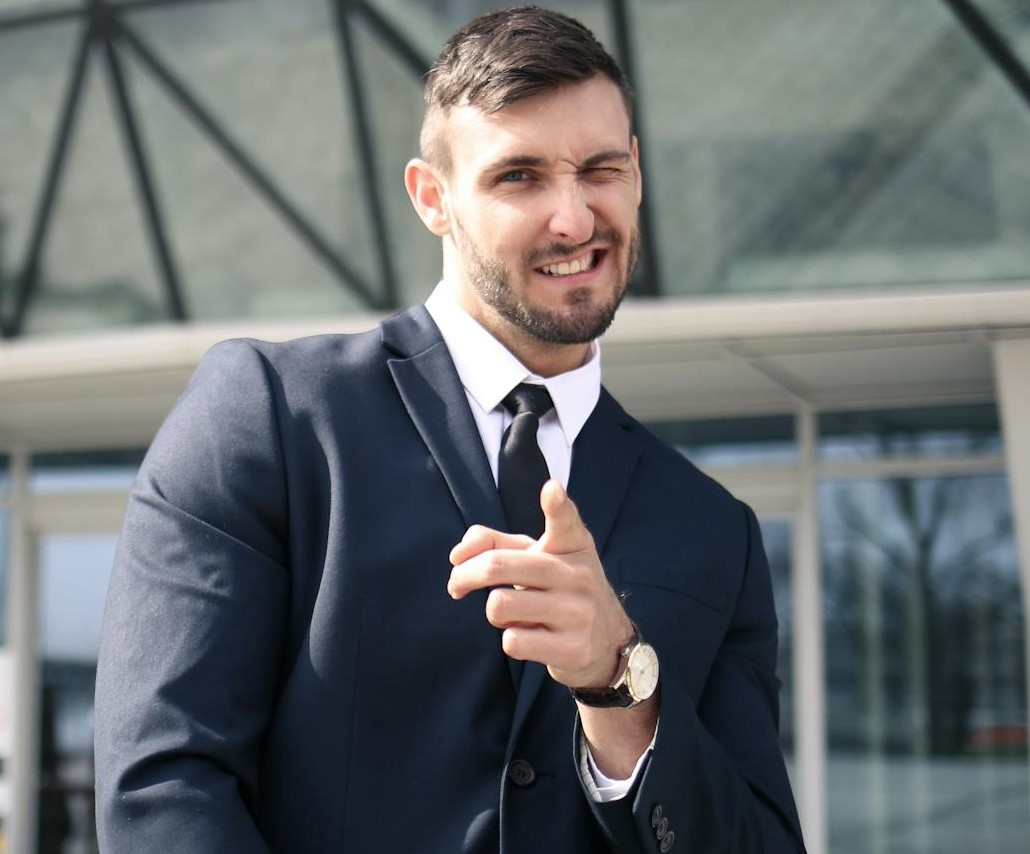
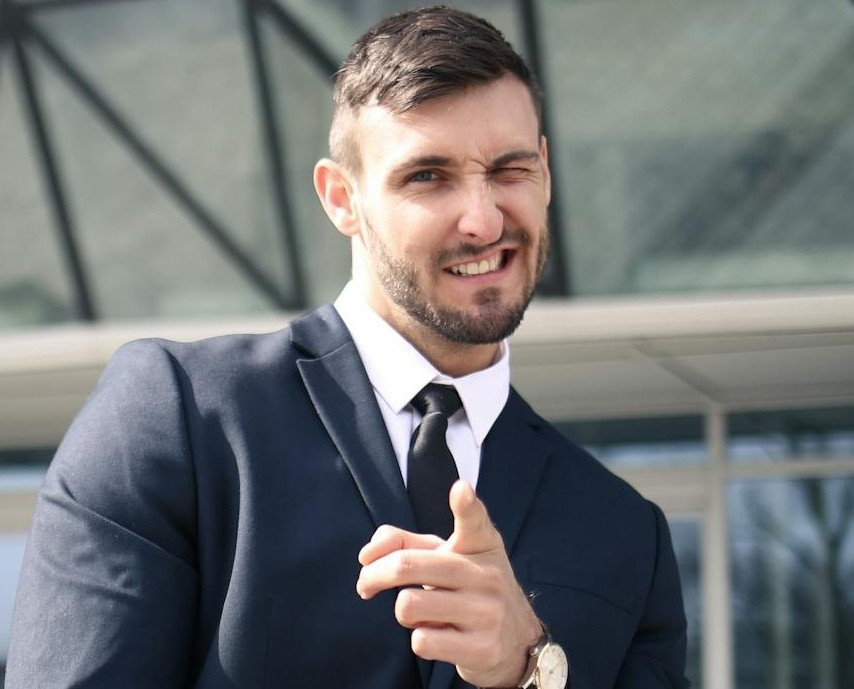
build: create footer and its content
Build the footer section with a content part on the left and a
responsive picture on the right.

Fill with content with a placeholder text and picture

Set only basic styles and properties to meet the given design files

diff --git a/index.html b/index.html
@@ -30,19 +30,226 @@
     <title>Project: Homepage</title>
 </head>
 <body>
-    <link defer rel="stylesheet" href="style.css">
-    
-    Lorem ipsum dolor sit amet, consectetur adipiscing elit, sed do eiusmod tempor incididunt ut labore et dolore magna aliqua. Ut enim ad minim veniam, quis nostrud exercitation ullamco laboris nisi ut aliquip ex ea commodo consequat.
+    <link rel="stylesheet" href="style.css">
+   
+    <header>
 
-
-    <i class="devicon-github-original"></i>
-
-    <i class="devicon-linkedin-plain"></i>
-
-    <i class="devicon-twitter-original"></i>
+        <picture>
+            <source 
+                media="(max-width: 530px)" 
+                srcset="assets/images/portrait-crop.jpg"
+            />
+            <img 
+                src="assets/images/portrait-full.jpg" 
+                alt="Portrait of stock guy" 
+            />
+        </picture>
           
-    <i class='bx bx-phone'></i>
-    <i class='bx bx-envelope'></i>
+        <section class="about-me-holder">
+            <div class="about-me-title">
+                <h1>About me</h1>
+            </div>
+            <div class ="about-me-content">
+                <p>
+                    Lorem ipsum dolor sit amet, consectetur adipiscing elit, 
+                    sed do eiusmod tempor incididunt ut labore et dolore magna aliqua.
+                    Ut enim ad minim veniam, quis nostrud exercitation ullamco laboris
+                    nisi ut aliquip ex ea commodo consequat. Duis aute irure dolor
+                    in reprehenderit in voluptate velit esse cillum dolore eu fugiat
+                    nulla pariatur.
+                </p>
+            </div>
+
+            <div class="about-me-links">
+                <i class="devicon-github-original"></i>
+                <i class="devicon-linkedin-plain"></i>
+                <i class="devicon-twitter-original"></i>
+            </div>
+        </section>
+
+    </header>
+    
+    <main>
+        <div class="content-title">
+            <h1>My Work</h1>
+        </div>
+
+        <div class="cards-holder">
+        
+            <article class="article-holder">
+                <div class="article-screenshot"></div>
+                <div class="article-title-holder">
+                    <div class="article-title">
+                        Project name
+                    </div>
+
+                    <div class="article-links">
+                        <i class="devicon-github-original"></i>
+                        <i class='bx bx-link-external'></i>
+                    </div>
+                </div>
+                <div class="article-content">
+                    <p>
+                        Short description of the project.
+                        Just a couple sentences will do.
+
+                    </p>
+                </div>
+            </article>
+
+            <article class="article-holder">
+                <div class="article-screenshot"></div>
+                <div class="article-title-holder">
+                    <div class="article-title">
+                        Project name
+                    </div>
+
+                    <div class="article-links">
+                        <i class="devicon-github-original"></i>
+                        <i class='bx bx-link-external'></i>
+                    </div>
+                </div>
+                <div class="article-content">
+                    <p>
+                        Short description of the project.
+                        Just a couple sentences will do.
+
+                    </p>
+                </div>
+            </article>
+
+            <article class="article-holder">
+                <div class="article-screenshot"></div>
+                <div class="article-title-holder">
+                    <div class="article-title">
+                        Project name
+                    </div>
+
+                    <div class="article-links">
+                        <i class="devicon-github-original"></i>
+                        <i class='bx bx-link-external'></i>
+                    </div>
+                </div>
+                <div class="article-content">
+                    <p>
+                        Short description of the project.
+                        Just a couple sentences will do.
+
+                    </p>
+                </div>
+            </article>
+
+            <article class="article-holder">
+                <div class="article-screenshot"></div>
+                <div class="article-title-holder">
+                    <div class="article-title">
+                        Project name
+                    </div>
+
+                    <div class="article-links">
+                        <i class="devicon-github-original"></i>
+                        <i class='bx bx-link-external'></i>
+                    </div>
+                </div>
+                <div class="article-content">
+                    <p>
+                        Short description of the project.
+                        Just a couple sentences will do.
+
+                    </p>
+                </div>
+            </article>
+
+            <article class="article-holder">
+                <div class="article-screenshot"></div>
+                <div class="article-title-holder">
+                    <div class="article-title">
+                        Project name
+                    </div>
+
+                    <div class="article-links">
+                        <i class="devicon-github-original"></i>
+                        <i class='bx bx-link-external'></i>
+                    </div>
+                </div>
+                <div class="article-content">
+                    <p>
+                        Short description of the project.
+                        Just a couple sentences will do.
+
+                    </p>
+                </div>
+            </article>
+
+            <article class="article-holder">
+                <div class="article-screenshot"></div>
+                <div class="article-title-holder">
+                    <div class="article-title">
+                        Project name
+                    </div>
+
+                    <div class="article-links">
+                        <i class="devicon-github-original"></i>
+                        <i class='bx bx-link-external'></i>
+                    </div>
+                </div>
+                <div class="article-content">
+                    <p>
+                        Short description of the project.
+                        Just a couple sentences will do.
+
+                    </p>
+                </div>
+            </article>
+
+       </div>
+
+    </main>
+    
+    <footer>
+        <section class="footer-content-holder">
+            <div class="footer-content-title">
+                <h1>Contact me</h1>
+            </div>
+            <div class="footer-content">
+                <p>
+                    Please get in touch if you think our work
+                    could be mutually beneficial.
+                </p>
+                <div class="footer-content-adres">
+                    <p>
+                        1234 Random Road
+                        Random Town, california 12345
+                    </p>
+                </div>
+                <div class="footer-content-phone">
+                    <i class='bx bx-phone'></i>
+                    <p>06-12345678</p>
+                </div>
+                <div class="footer-content-mail">
+                    <i class='bx bx-envelope'></i>
+                    <p>this.adres@isnotreal.com</p>
+                </div>
+                <div class="footer-links">
+                    <i class="devicon-github-original"></i>
+                    <i class="devicon-linkedin-plain"></i>
+                    <i class="devicon-twitter-original"></i>
+                </div>
+            </div>
+        </section>
+
+            <picture>
+                <source 
+                    media="(max-width: 530px)" 
+                    srcset="assets/images/contact-portrait-crop.jpg"
+                />
+                <img 
+                    class="footer-picture"
+                    src="assets/images/contact-portrait-full.jpg" 
+                    alt="Portrait of stock guy" 
+                />
+            </picture>
+    </footer>
 
 </body>
 </html>

diff --git a/style.css b/style.css
@@ -1,3 +1,111 @@
+/* Reset CSS */
+*{
+    margin: 0;
+    padding: 0;
+    box-sizing: border-box;
+}
+
+
+
+/* Custom properties */
+:root{
+    --background-color: rgb(0, 152, 190);
+
+    --title-font-family: "Playfair Display", serif;
+    --content-font-family: "Roboto", sans-serif;
+}
+
+
+
+/* Global layout */
+
+/* html{
+    width: 100vw;
+    height: 100vh;
+} */
+
 body{
-    background-color: bisque;
+    font-family: var(--title-font-family);
+    background-color: rgb(255, 255, 255);
+}
+
+header{
+    background: linear-gradient(170deg, var(--background-color) 50%, rgb(255, 255, 255) 50%);
+    display: flex;
+    flex-direction: column;
+    align-items: center;
+}
+
+footer{
+    background-color: var(--background-color);
+    display: flex;
+    flex-direction: column;
+    justify-content: center;
+    align-items: center;
+
+    max-width: 960px;
+}
+
+/* Elements */
+.about-me-holder{
+    background-color: white;
+    box-shadow: 1px 1px 5px 2px rgb(180, 180, 180);
+}
+
+.about-me-content{
+    max-width: 400px;
+}
+
+.about-me-links{
+    display: flex;
+    flex-direction: row;
+    justify-content:end;
+}
+
+.cards-holder{
+    max-width: 960px;
+    height: 100%;
+
+    display: flex;
+    flex-direction: column;
+    flex-wrap: wrap;
+    gap: 30px;
+}
+
+.article-holder{
+    flex: 1;
+}
+
+.article-title-holder{
+    display: flex;
+    flex-direction: row;
+}
+
+.article-screenshot{
+    width: 260px;
+    height: 200px;
+    background-color: red;
+}
+
+p{
+    font-family: var(--content-font-family);
+}
+
+.footer-content-phone, .footer-content-mail{
+    display: flex;
+    flex-direction: row;
+}
+
+.footer-picture{
+    width: auto;
+    height: 424px;
+}
+
+
+
+/* Media queries */
+@media screen and (min-width: 530px) {
+    header {flex-direction: row;}
+    .cards-holder{flex-direction: row;}
+    footer {flex-direction: row;}
 }
